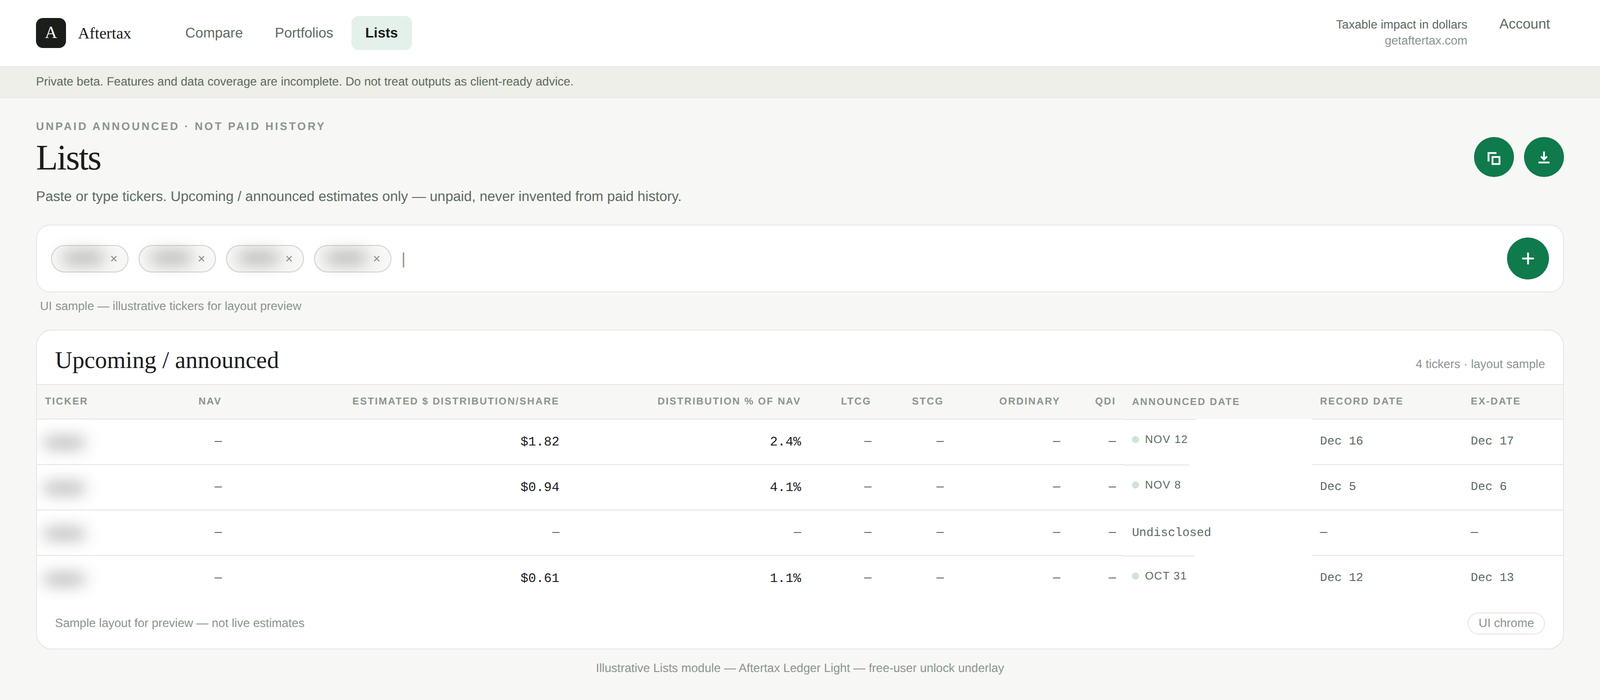
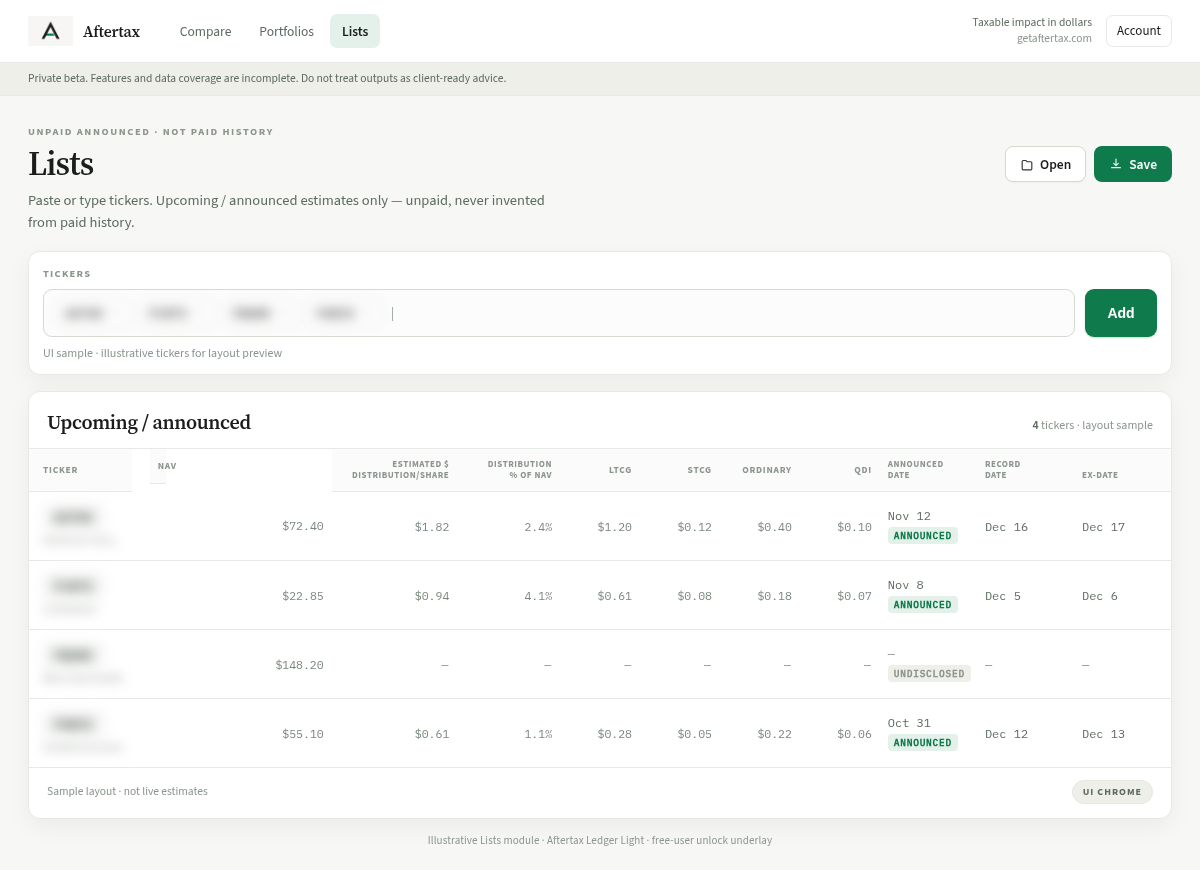
Swap in Modules Lists Unlock underlay with full columns
Use the delivered marketing PNG/WebP/@2x: blurred ticker chips and
ticker column, sharp NAV through Ex-date headers.

diff --git a/src/components/lists/ListsUnlockPreview.tsx b/src/components/lists/ListsUnlockPreview.tsx
@@ -27,8 +27,8 @@ export function ListsUnlockPreview({
         <img
           src={src}
           alt={LISTS_UNLOCK_PREVIEW_ALT}
-          width={1600}
-          height={700}
+          width={1200}
+          height={870}
           className="h-auto w-full"
         />
       ) : (
@@ -38,8 +38,8 @@ export function ListsUnlockPreview({
             src={LISTS_UNLOCK_PREVIEW_SRC}
             srcSet={`${LISTS_UNLOCK_PREVIEW_SRC} 1x, ${LISTS_UNLOCK_PREVIEW_SRC_2X} 2x`}
             alt={LISTS_UNLOCK_PREVIEW_ALT}
-            width={1600}
-            height={700}
+            width={1200}
+            height={870}
             className="h-auto w-full"
           />
         </picture>
